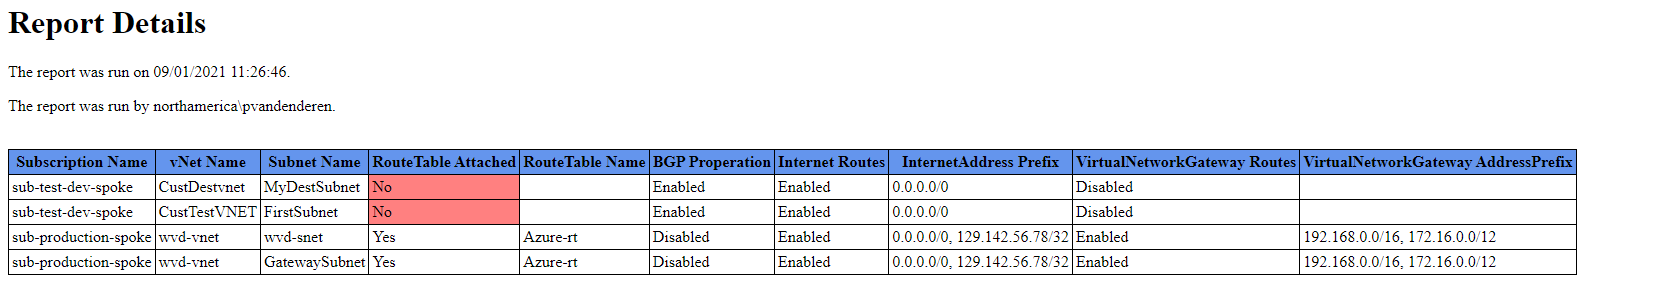
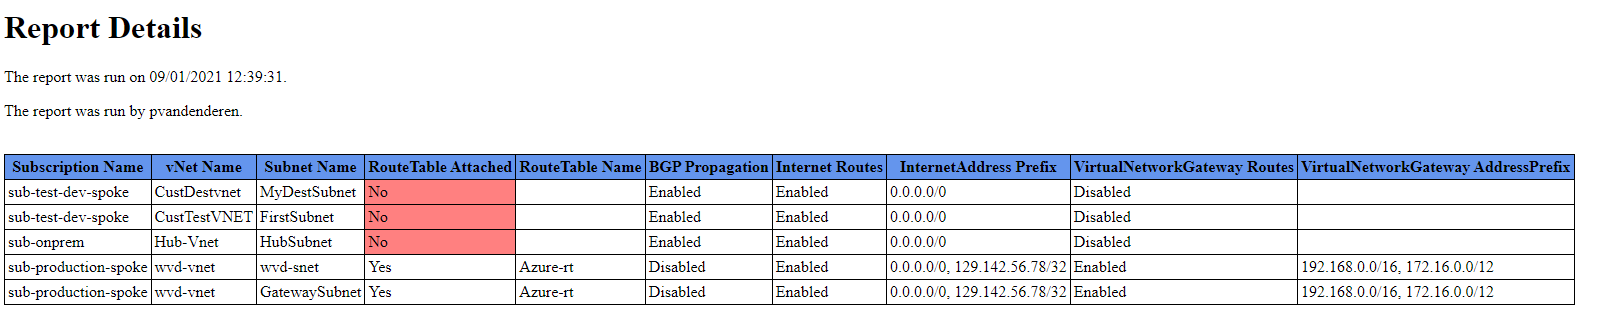
Changes

diff --git a/AzureEffectiveRoutes.html b/AzureEffectiveRoutes.html
@@ -24,14 +24,15 @@ TD {
 </style>
 </head><body>
 <h1> Report Details </h1> 
-<p> The report was run on 09/01/2021 11:26:46. </p>
+<p> The report was run on 09/01/2021 12:39:31. </p>
 <p> The report was run by pvandenderen.</p>
 <br>
 <table>
 <colgroup><col/><col/><col/><col/><col/><col/><col/><col/><col/><col/></colgroup>
-<tr><th>Subscription Name</th><th>vNet Name</th><th>Subnet Name</th><th>RouteTable Attached</th><th>RouteTable Name</th><th>BGP Properation</th><th>Internet Routes</th><th>InternetAddress Prefix</th><th>VirtualNetworkGateway Routes</th><th>VirtualNetworkGateway AddressPrefix</th></tr>
+<tr><th>Subscription Name</th><th>vNet Name</th><th>Subnet Name</th><th>RouteTable Attached</th><th>RouteTable Name</th><th>BGP Propagation</th><th>Internet Routes</th><th>InternetAddress Prefix</th><th>VirtualNetworkGateway Routes</th><th>VirtualNetworkGateway AddressPrefix</th></tr>
 <tr><td>sub-test-dev-spoke</td><td>CustDestvnet</td><td>MyDestSubnet</td><td style = 'background-color:#FF8080'>No</td><td></td><td>Enabled</td><td>Enabled</td><td>0.0.0.0/0</td><td>Disabled</td><td></td></tr>
 <tr><td>sub-test-dev-spoke</td><td>CustTestVNET</td><td>FirstSubnet</td><td style = 'background-color:#FF8080'>No</td><td></td><td>Enabled</td><td>Enabled</td><td>0.0.0.0/0</td><td>Disabled</td><td></td></tr>
+<tr><td>sub-onprem</td><td>Hub-Vnet</td><td>HubSubnet</td><td style = 'background-color:#FF8080'>No</td><td></td><td>Enabled</td><td>Enabled</td><td>0.0.0.0/0</td><td>Disabled</td><td></td></tr>
 <tr><td>sub-production-spoke</td><td>wvd-vnet</td><td>wvd-snet</td><td>Yes</td><td>Azure-rt</td><td>Disabled</td><td>Enabled</td><td>0.0.0.0/0, 129.142.56.78/32</td><td>Enabled</td><td>192.168.0.0/16, 172.16.0.0/12</td></tr>
 <tr><td>sub-production-spoke</td><td>wvd-vnet</td><td>GatewaySubnet</td><td>Yes</td><td>Azure-rt</td><td>Disabled</td><td>Enabled</td><td>0.0.0.0/0, 129.142.56.78/32</td><td>Enabled</td><td>192.168.0.0/16, 172.16.0.0/12</td></tr>
 </table>
